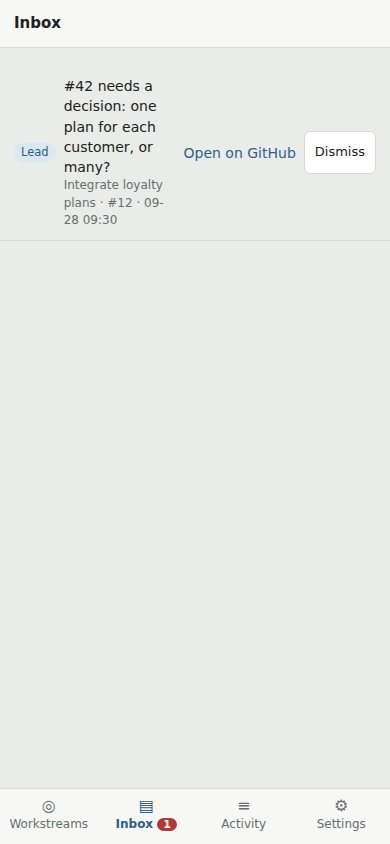
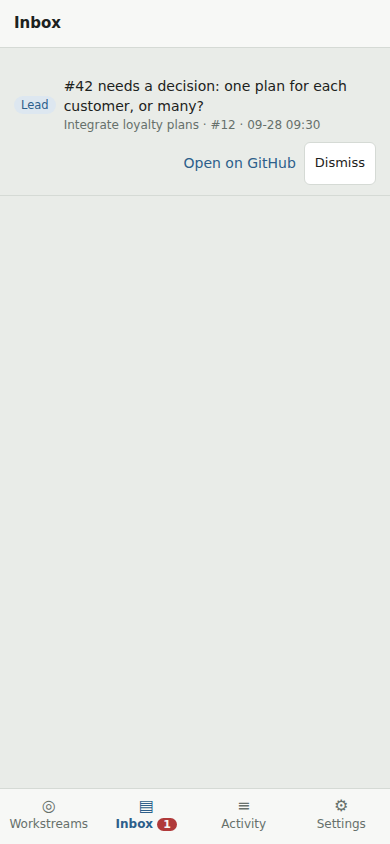
Stop horizontal scroll from long words, chips and Inbox rows (#155)

Changed region(s): [[0.1538, 0.0924, 0.9538, 0.2773], [0.0615, 0.1232, 0.1231, 0.1848]]

diff --git a/crates/mobius-ui/assets/main.css b/crates/mobius-ui/assets/main.css
@@ -60,6 +60,7 @@ button {
 .grow {
   flex: 1;
   min-width: 0;
+  overflow-wrap: anywhere;
 }
 
 .muted {
@@ -322,6 +323,12 @@ a.btn {
   border-bottom: 1px solid var(--line);
 }
 
+.chips .chip {
+  max-width: 100%;
+  overflow: hidden;
+  text-overflow: ellipsis;
+}
+
 button.chip {
   border: 1px solid var(--line);
   background: var(--raised);
@@ -337,6 +344,12 @@ button.chip.on {
 .item a {
   color: var(--accent);
   text-decoration: none;
+}
+
+.item .actions {
+  display: flex;
+  align-items: center;
+  gap: 8px;
 }
 
 .center {
@@ -401,6 +414,7 @@ button.chip.on {
 
 .msg {
   max-width: 82%;
+  min-width: 0;
   padding: 8px 11px;
   border-radius: 10px;
   background: var(--raised);
@@ -619,6 +633,7 @@ button.chip.on {
   border: none;
   background: none;
   text-align: left;
+  overflow-wrap: anywhere;
 }
 
 a.node {
@@ -660,6 +675,11 @@ a.node {
 
 .tr.crit {
   color: var(--crit);
+}
+
+.tr > div {
+  min-width: 0;
+  overflow-wrap: anywhere;
 }
 
 .tr .k {
@@ -786,6 +806,15 @@ a.node {
 
   .sheet {
     display: flex;
+  }
+
+  .list .item {
+    flex-wrap: wrap;
+  }
+
+  .list .item .actions {
+    flex-basis: 100%;
+    justify-content: flex-end;
   }
 
   .center {

diff --git a/crates/mobius-ui/src/lib.rs b/crates/mobius-ui/src/lib.rs
@@ -763,29 +763,31 @@ fn Inbox() -> Element {
                             {item.time.to_offset(local_offset()).format(format_description!("[month]-[day] [hour]:[minute]")).unwrap_or_default()}
                         }
                     }
-                    if item.kind == InboxKind::UsageLimit {
+                    div { class: "actions",
+                        if item.kind == InboxKind::UsageLimit {
+                            button {
+                                class: "btn primary",
+                                onclick: move |_| async move {
+                                    match inbox_resume(item.id).await {
+                                        Ok(()) => error.set(String::new()),
+                                        Err(failure) => error.set(error_text(&failure)),
+                                    }
+                                },
+                                "Resume now"
+                            }
+                        } else {
+                            a { href: "{item.link}", target: "_blank", "Open on GitHub" }
+                        }
                         button {
-                            class: "btn primary",
+                            class: "btn",
                             onclick: move |_| async move {
-                                match inbox_resume(item.id).await {
+                                match inbox_dismiss(item.id).await {
                                     Ok(()) => error.set(String::new()),
                                     Err(failure) => error.set(error_text(&failure)),
                                 }
                             },
-                            "Resume now"
+                            "Dismiss"
                         }
-                    } else {
-                        a { href: "{item.link}", target: "_blank", "Open on GitHub" }
-                    }
-                    button {
-                        class: "btn",
-                        onclick: move |_| async move {
-                            match inbox_dismiss(item.id).await {
-                                Ok(()) => error.set(String::new()),
-                                Err(failure) => error.set(error_text(&failure)),
-                            }
-                        },
-                        "Dismiss"
                     }
                 }
             }
